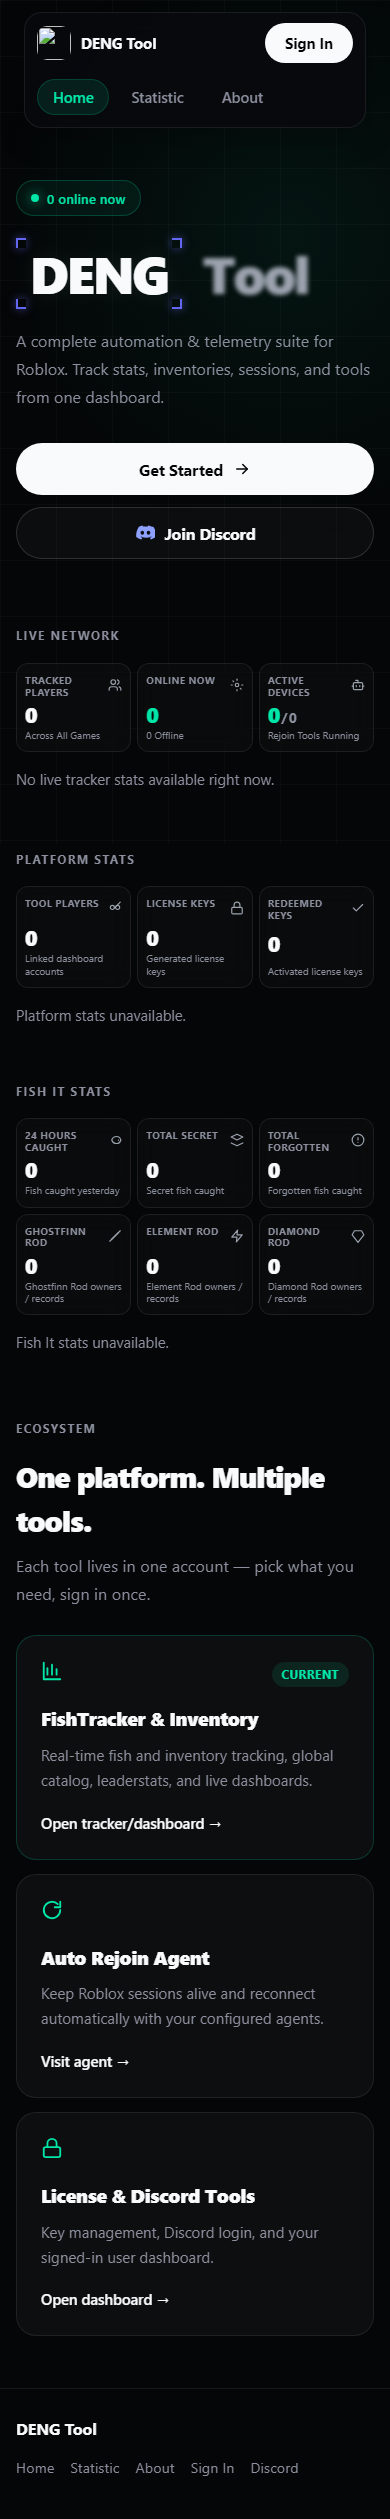
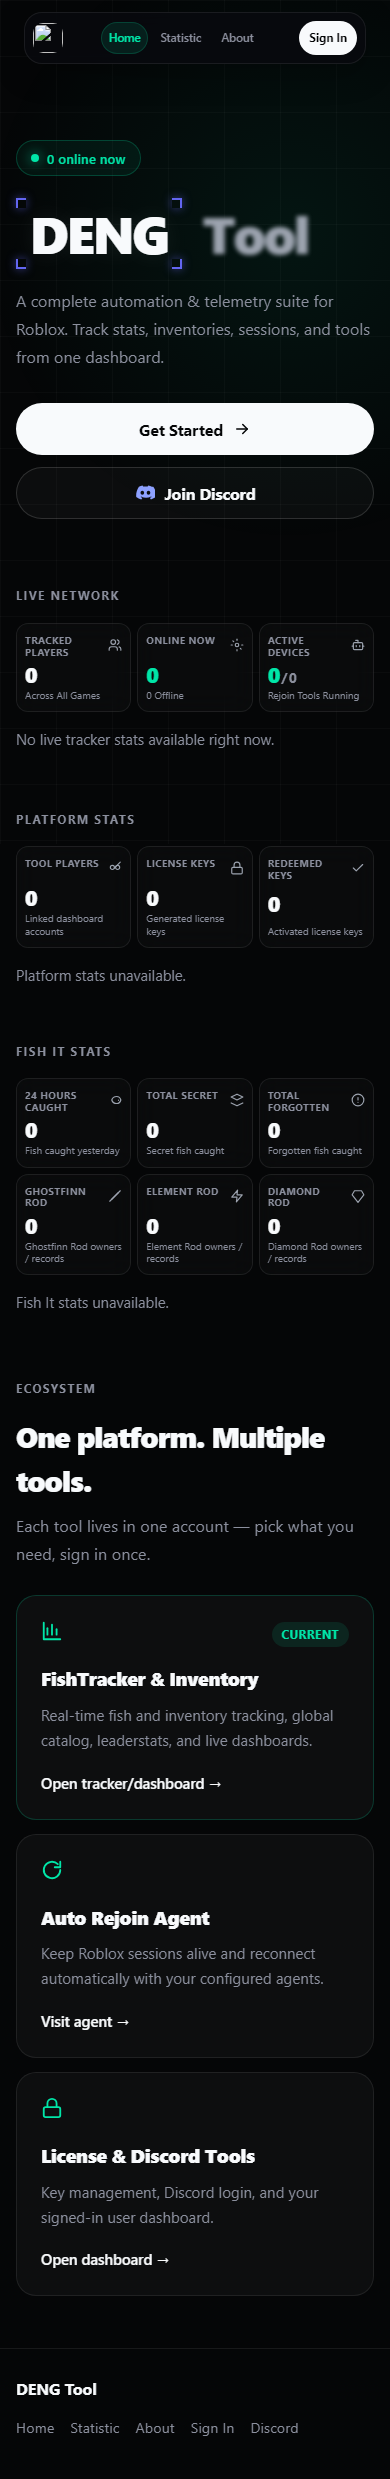
Keep homepage nav links in one row on mobile and APK WebView.
Replace the stacked mobile navbar grid with a compact single-row flex layout for Home, Statistic, and About.

diff --git a/site/public/css/home.css b/site/public/css/home.css
@@ -685,18 +685,62 @@
 /* ── Responsive ── */
 @media (max-width: 860px) {
   .deng-home-nav__inner {
-    grid-template-columns: 1fr auto;
+    display: flex;
+    align-items: center;
+    justify-content: space-between;
+    gap: 8px;
+    flex-wrap: nowrap;
     border-radius: 18px;
-    padding: 10px 12px;
+    padding: 8px 10px;
+    min-height: 52px;
+  }
+
+  .deng-home-brand {
+    flex: 0 1 auto;
+    min-width: 0;
+    gap: 8px;
+  }
+
+  .deng-home-brand__mark {
+    width: 30px;
+    height: 30px;
+  }
+
+  .deng-home-brand__text {
+    font-size: 0.82rem;
   }
 
   .deng-home-nav__links {
-    grid-column: 1 / -1;
-    order: 3;
-    justify-content: flex-start;
-    overflow-x: auto;
-    padding-bottom: 2px;
-    -webkit-overflow-scrolling: touch;
+    display: flex;
+    flex: 1 1 auto;
+    flex-direction: row;
+    align-items: center;
+    justify-content: center;
+    gap: 4px;
+    flex-wrap: nowrap;
+    white-space: nowrap;
+    min-width: 0;
+    overflow: visible;
+    padding-bottom: 0;
+  }
+
+  .deng-home-nav__link {
+    min-height: 32px;
+    padding: 0 10px;
+    font-size: 0.78rem;
+    flex: 0 0 auto;
+    white-space: nowrap;
+  }
+
+  .deng-home-nav__actions {
+    flex: 0 0 auto;
+  }
+
+  .deng-home-nav__signin {
+    min-height: 36px;
+    padding: 0 12px;
+    font-size: 0.78rem;
+    white-space: nowrap;
   }
 
   .deng-home-eco-grid {
@@ -710,7 +754,7 @@
 
 @media (max-width: 640px) {
   .deng-home {
-    --deng-home-nav-offset: 132px;
+    --deng-home-nav-offset: 92px;
   }
 
   .deng-home-nav-wrap.deng-home-nav-wrap--fixed {
@@ -802,6 +846,26 @@
 }
 
 @media (max-width: 430px) {
+  .deng-home-nav__inner {
+    gap: 6px;
+    padding: 7px 8px;
+  }
+
+  .deng-home-brand__text {
+    display: none;
+  }
+
+  .deng-home-nav__link {
+    padding: 0 8px;
+    font-size: 0.72rem;
+  }
+
+  .deng-home-nav__signin {
+    min-height: 34px;
+    padding: 0 10px;
+    font-size: 0.72rem;
+  }
+
   .deng-home-stat-grid--live,
   .deng-home-stat-grid--platform,
   .deng-home-stat-grid--fishit,

diff --git a/site/tests/home_stats_sources.test.js b/site/tests/home_stats_sources.test.js
@@ -2,6 +2,7 @@
 
 const { describe, test } = require('node:test');
 const assert = require('node:assert/strict');
+const fs = require('fs');
 const request = require('supertest');
 
 process.env.NODE_ENV = 'test';
@@ -150,5 +151,13 @@ describe('landing stat sources and layout regression', () => {
     assert.doesNotMatch(res.text, /deng-home-node-grid/);
     assert.match(res.text, /id="about"/);
     assert.match(res.text, /One platform\. Multiple tools\./);
+  });
+
+  test('mobile homepage keeps Home Statistic About nav links in one row', () => {
+    const css = fs.readFileSync(path.join(__dirname, '..', 'public', 'css', 'home.css'), 'utf8');
+    assert.match(css, /@media \(max-width: 860px\)[\s\S]*\.deng-home-nav__inner[\s\S]*display:\s*flex[\s\S]*flex-wrap:\s*nowrap/);
+    assert.match(css, /@media \(max-width: 860px\)[\s\S]*\.deng-home-nav__links[\s\S]*flex-wrap:\s*nowrap/);
+    assert.doesNotMatch(css, /@media \(max-width: 860px\)[\s\S]*\.deng-home-nav__links[\s\S]*grid-column:\s*1\s*\/\s*-1/);
+    assert.doesNotMatch(css, /@media \(max-width: 860px\)[\s\S]*\.deng-home-nav__links[\s\S]*order:\s*3/);
   });
 });